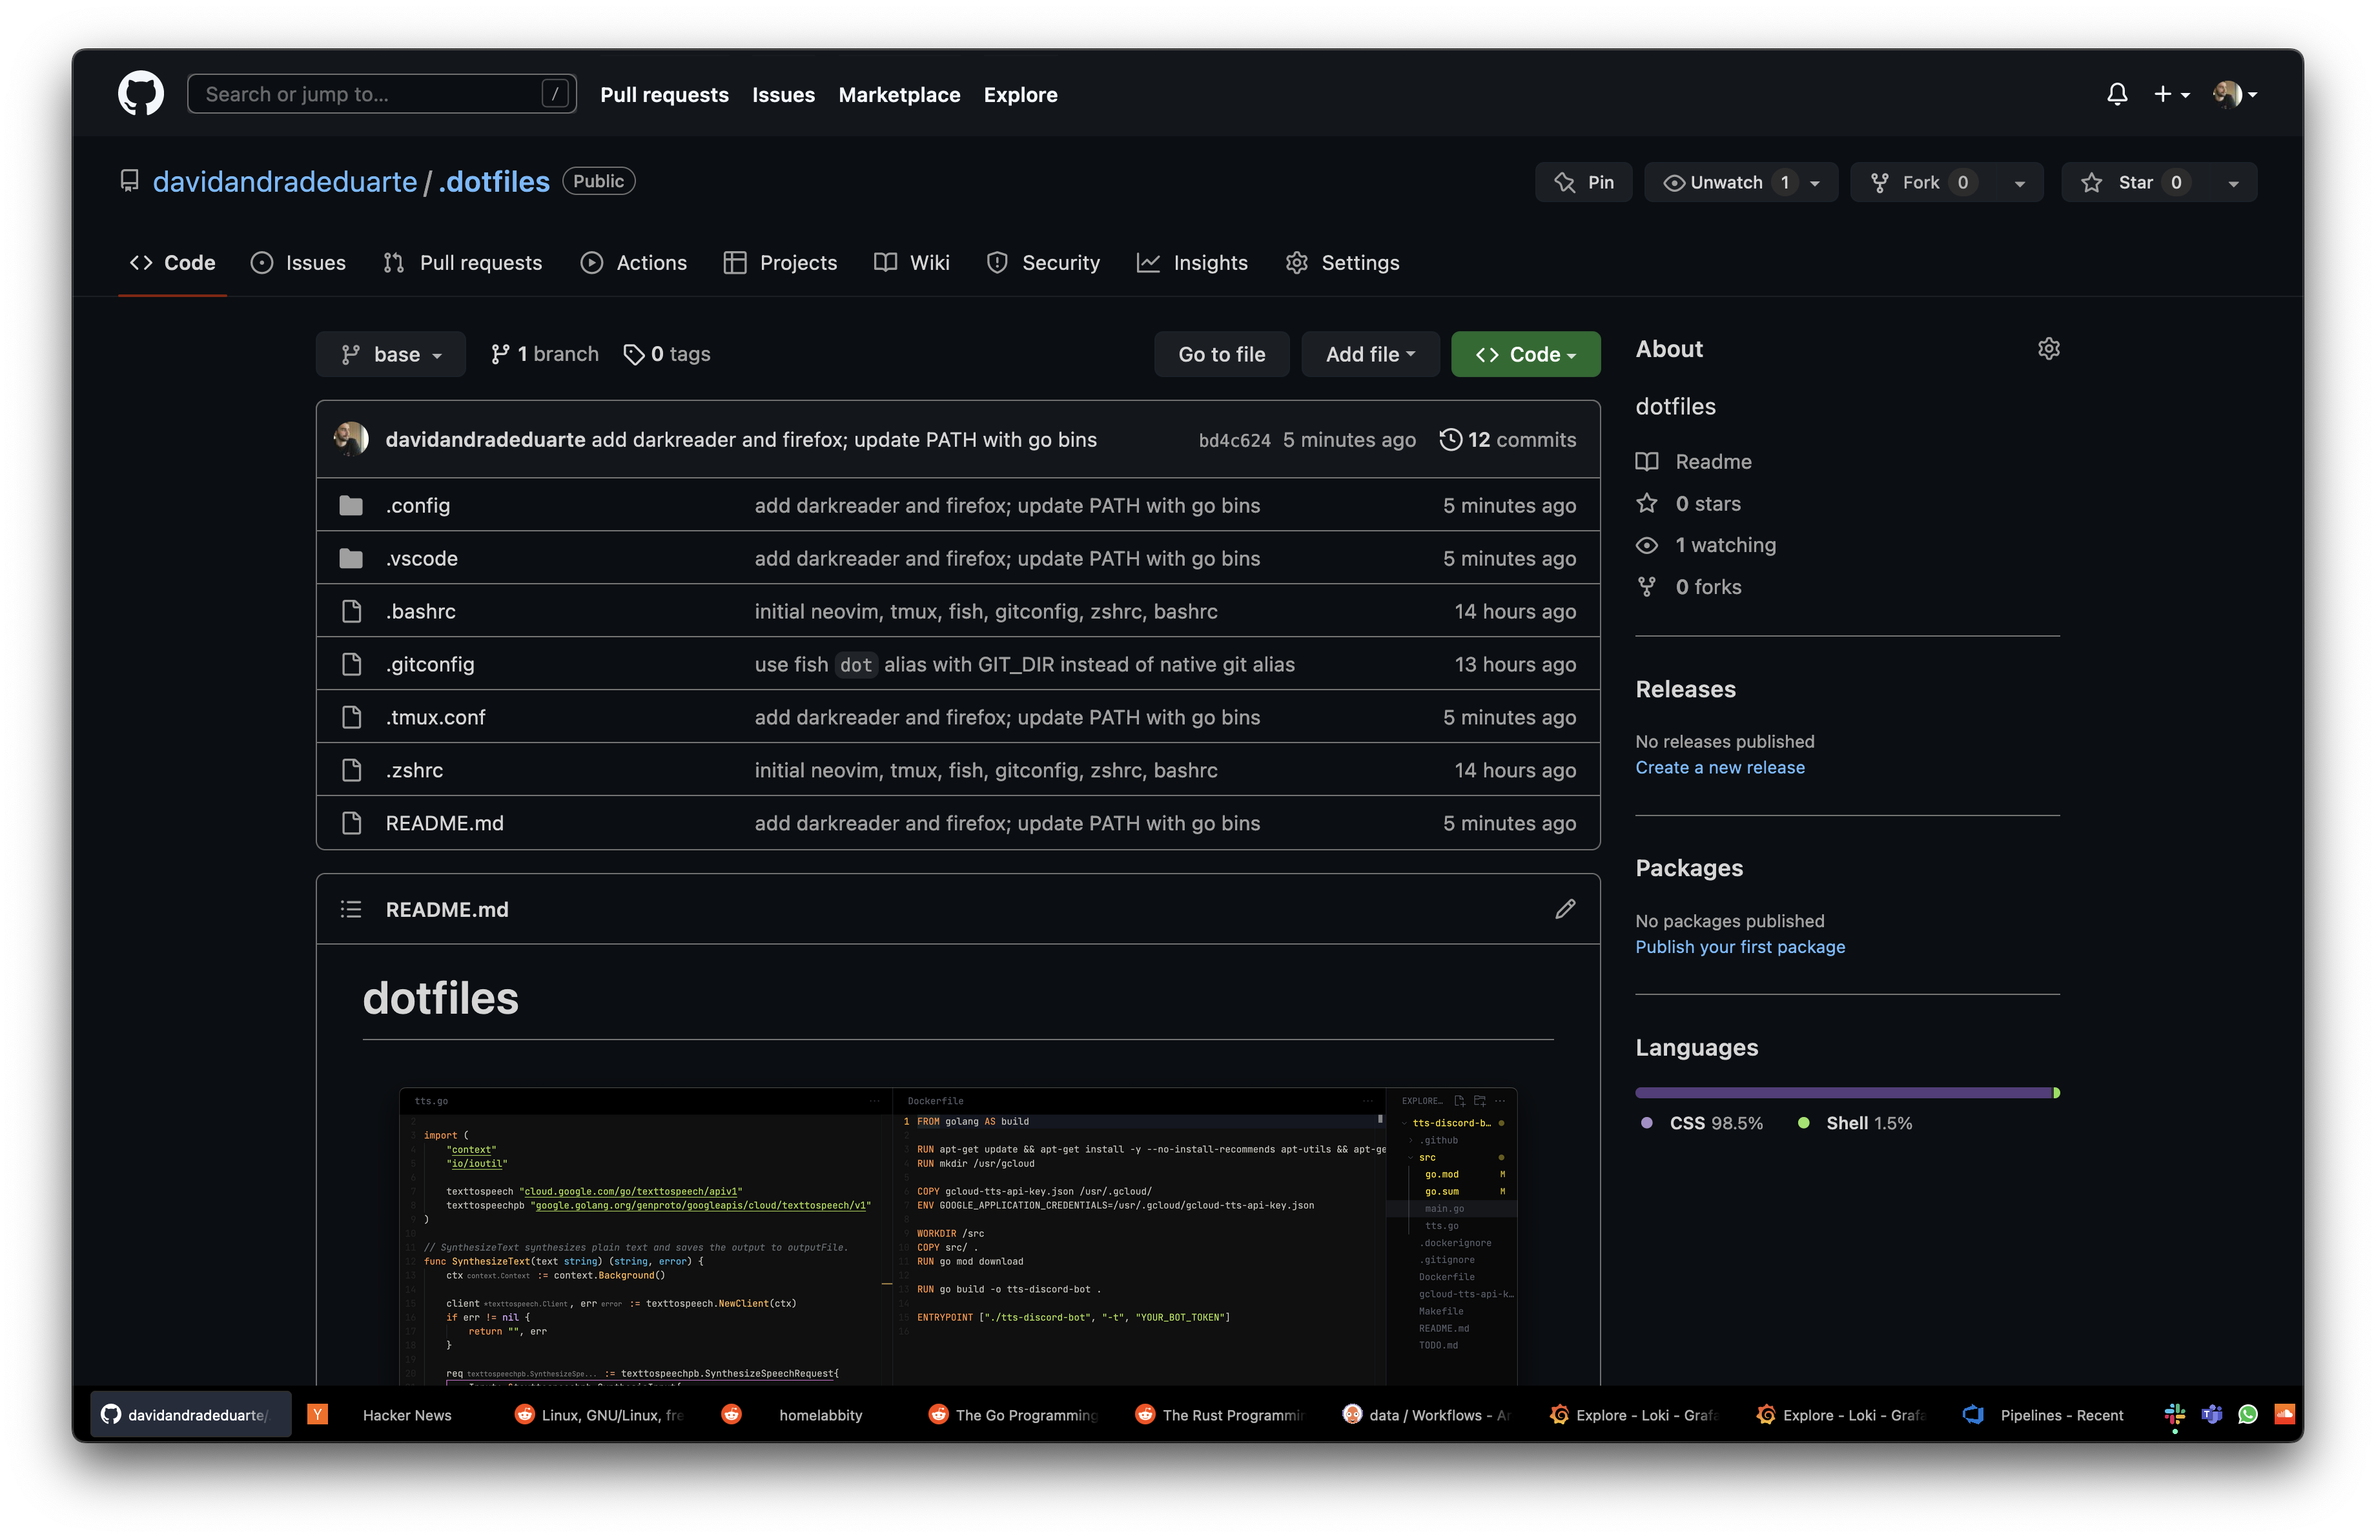
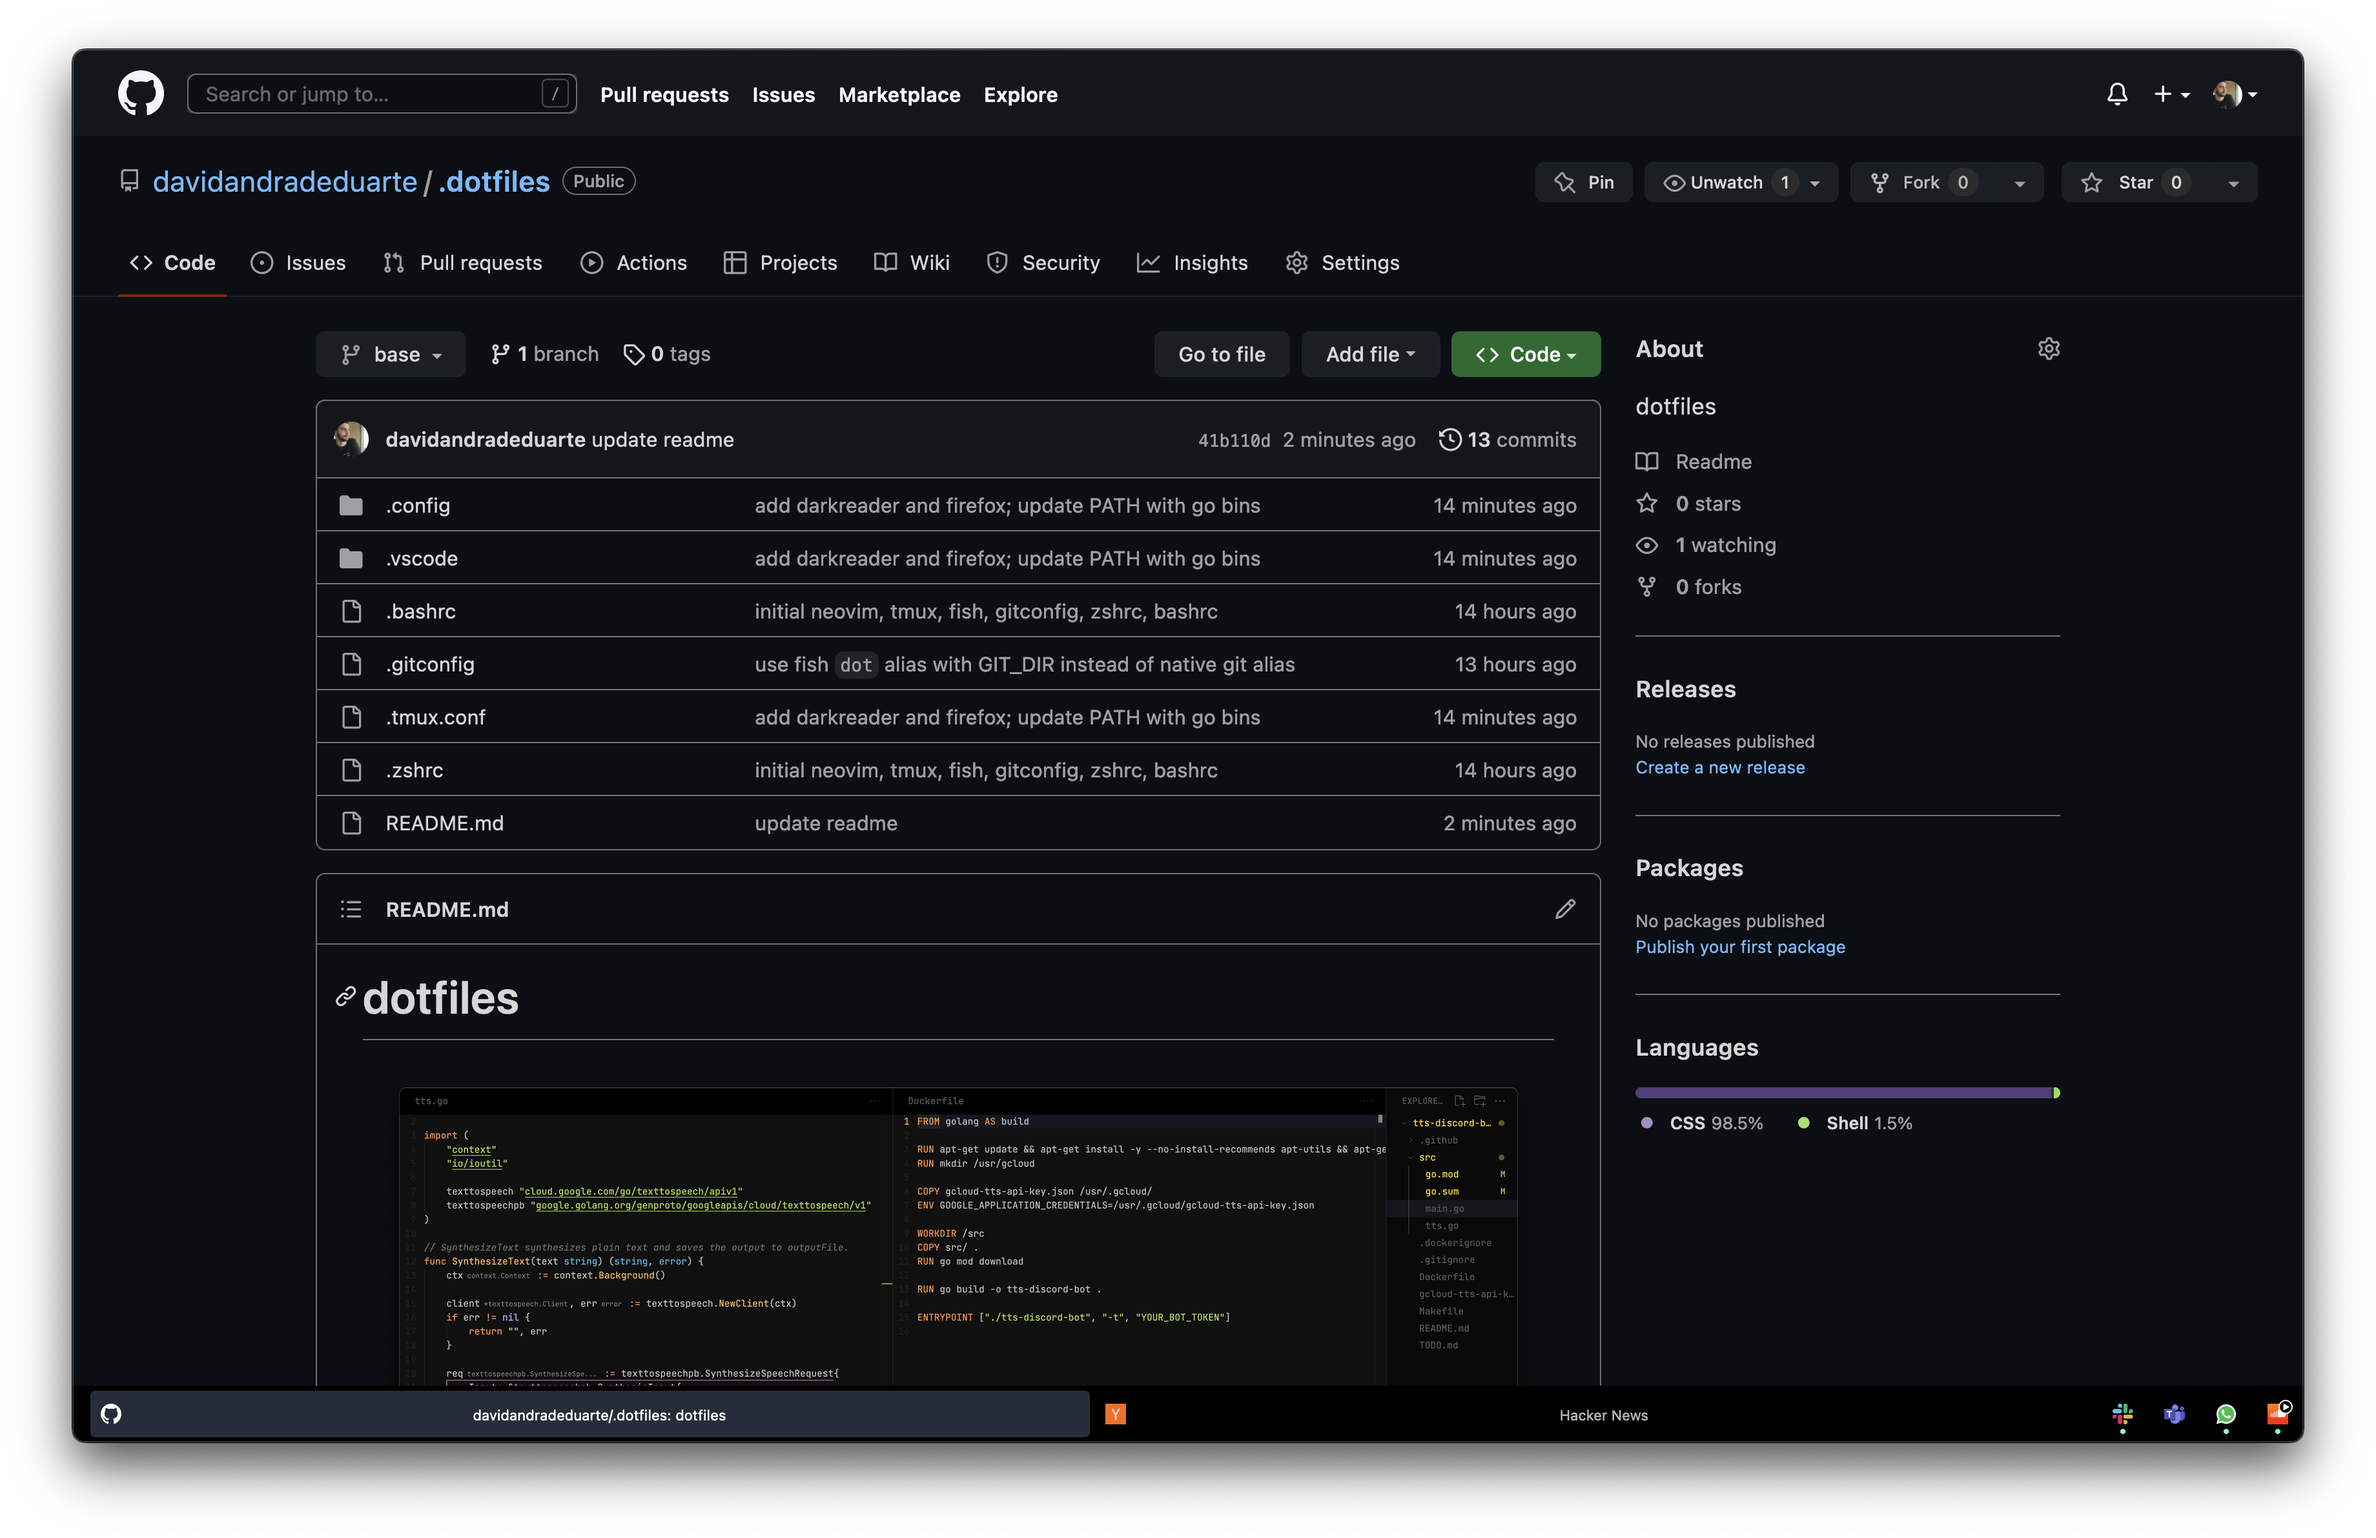
update firefox.png and ff settings

diff --git a/.config/firefox/userChrome.css b/.config/firefox/userChrome.css
@@ -4,7 +4,7 @@
 @import url(chrome/autohide_bookmarks_and_main_toolbars.css);
 @import url(chrome/privatemode_indicator_as_menu_button.css);
 @import url(chrome/pinned_tabs_on_right.css);
-@import url(chrome/shrinking_pinned_tabs.css);
+/* @import url(chrome/shrinking_pinned_tabs.css); */
 @import url(chrome/centered_tab_label.css);
 
 :root {
